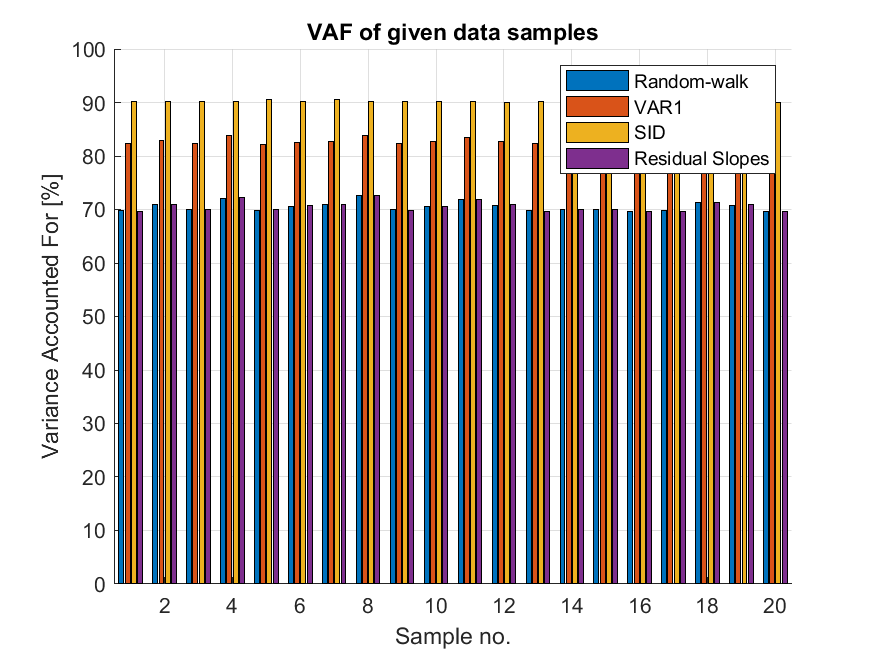
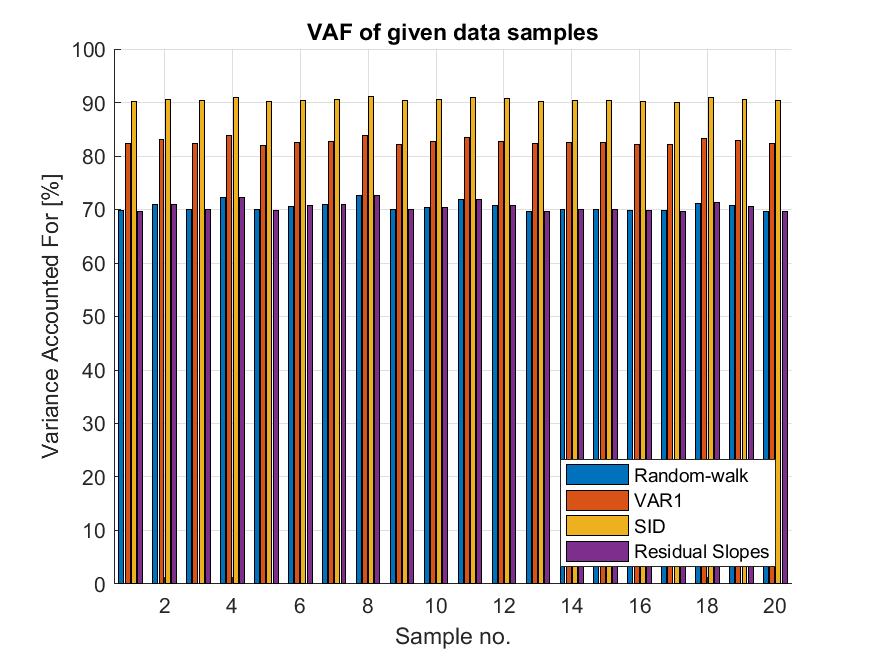
Updated files

Changed region(s): [[0.6171, 0.7012, 0.8949, 0.8841], [0.648, 0.0915, 0.8949, 0.2744]]

diff --git a/FinalAssignmentSC42025.m b/FinalAssignmentSC42025.m
@@ -55,42 +55,30 @@ for i = 1 : ns
     stable_AR(i,1) = matstable(A-K*G);
     [var_eps_AR(i,:),VAF_AR(i,1)] = AOloopAR(G,H,Cphi0,sigmae,A,Cw,K,phisim);
 end
-%% Determining order range of the system
-fig1 = figure;
-for k = 1 : ns
-    phi = phiIdent{1,k};
-    Y = Hankel(phi,1,10,2500);
-    [~,S,~] = svd(Y);
-    semilogy(S,'b*'); grid on; hold on; legend on;
-    xlabel('Singular value no.'); ylabel('Intensity singular value');
-    title('Singular values of phiIdent');
-end
-saveas(fig1,'SingularValuesPhi','png');
-clear fig1
+
 %% Model 3: Subspace Identification
 disp('Evaluating the Subspace Identification routine');
-% For identification 2/3 of the data is used, the remaining 1/3 is used for
-% the validation process, using cross-validation.
-n_id = 4;
-n = linspace(100,250,n_id);
-VAR = cell(length(phiIdent),length(n));
+r = 10;  % Since a MIMO system is to be identified, we require 2p^2*r > n
+n_id = 7;
+n = linspace(140,200,n_id);
 stable_SI = zeros(length(phiIdent),length(n));
 for j = 1 : n_id
     for i = 1 : ns
         fprintf('SubID: order = %0i, Sample %0i',n(j),i); fprintf('\n');
-        phi = phiIdent{1,i};
-        sysorder = n(j); N = size(phi,2); o = size(G,1); % Define some dimensions
-        r = 10;  % Since a MIMO system is to be identified, we require 2p^2*r > n
-        N_id = 3500; N_val = N-N_id; % Approximately 2/3, 1/3
+        phiid = phiIdent{1,i};
+        sysorder = n(j); N = size(phiid,2); o = size(G,1); % Define some dimensions
+        
+        N_id = 5000; N_val = N-N_id; % Approximately 2/3, 1/3
         % Simulate open-loop measurements so(k):
         s_id = zeros(o,N);
         for k = 1 : N
             e = (sigmae^2*eye(o)*randn(o,1)); % Generate white noise sequence with covariance sigma^2*I
-            s_id(:,k) = G*phi(:,k) + e;
+            s_id(:,k) = G*phiid(:,k) + e;
         end
         [As,Cs,Ks] = SubId(s_id,N_id,N_val,r,sysorder);
         stable_SI(i,j) = matstable(As-Ks*Cs);
-        [var_eps(i,j),VAF_SI(i,j)] = AOloopSID(G,H,As,Cs,Ks,sigmae,phi);
+        phisim = phiSim{1,i};
+        [var_eps_SI(i,j),VAF_SI(i,j)] = AOloopSID(G,H,As,Cs,Ks,sigmae,phisim);
     end
 end
 
@@ -117,24 +105,12 @@ toc;
 for j = 1 : n_id
     maxsi(j) = max(VAF_SI(:,j));
     meansi(j) = mean(VAF_SI(:,j));
-    [~,I] = min(mean(cell2mat(VAR)));
+    [~,I] = min(mean(var_eps_SI));
 end
-var_SI_best = cell2mat(VAR(:,I));
+var_SI_best = var_eps_SI(:,I);
 [~,I] = max(meansi);
 VAF_SI_best(:,1) = VAF_SI(:,I);
 
-% Finding the best variance among the 20 samples, by evaluating maximum
-% mean
-% meanvar_NC = mean(var_NC,1); [~,I] = min(meanvar_NC); 
-% varNC = var_NC(:,I);
-% meanvar_RW = mean(var_eps_RW,1); [~,I] = min(meanvar_RW); 
-% var_RW = var_eps_RW(:,I);
-% meanvar_AR = mean(var_eps_AR,1); [~,I] = min(meanvar_AR); 
-% var_AR = var_eps_AR(:,I);
-% meanvar_SI = mean(var_eps_SI,1); [~,I] = min(meanvar_SI); 
-% var_SI = var_eps_SI(:,I);
-% meanvar_RSL = mean(var_eps_RSL,1); [~,I] = min(meanvar_RSL); 
-% var_RSL = var_eps_RSL(:,I);
 
 fig2 = figure;
 plot(n,meansi,'r*'); grid on;
@@ -146,7 +122,8 @@ clear fig2
 fig3 = figure;
 hold on; grid on;
 bar(1:20,[VAF_RW VAF_AR VAF_SI_best VAF_SL]);
-legend('Random-walk','VAR1','SID','Residual Slopes');
+L = legend('Random-walk','VAR1','SID','Residual Slopes');
+set(L,'Location','southeast')
 xlabel('Sample no.'); ylabel('Variance Accounted For [%]');
 title('VAF of given data samples');
 saveas(fig3,'VAFComparison','png');
@@ -184,11 +161,7 @@ fig5 = figure;
 imagesc(reshape(unob2,[7,7]));
 saveas(fig5,'UnobservableMode21','png');
 clear fig5
-N = null([G;ones(1,49)]);
-fig6 = figure;
-imagesc(reshape(N,[7,7]));
-saveas(fig6,'UnobservableMode22','png');
-clear fig6
+
 %% Saving Workspace Data
 save('WorkspaceFiltering.mat');
 pause;
